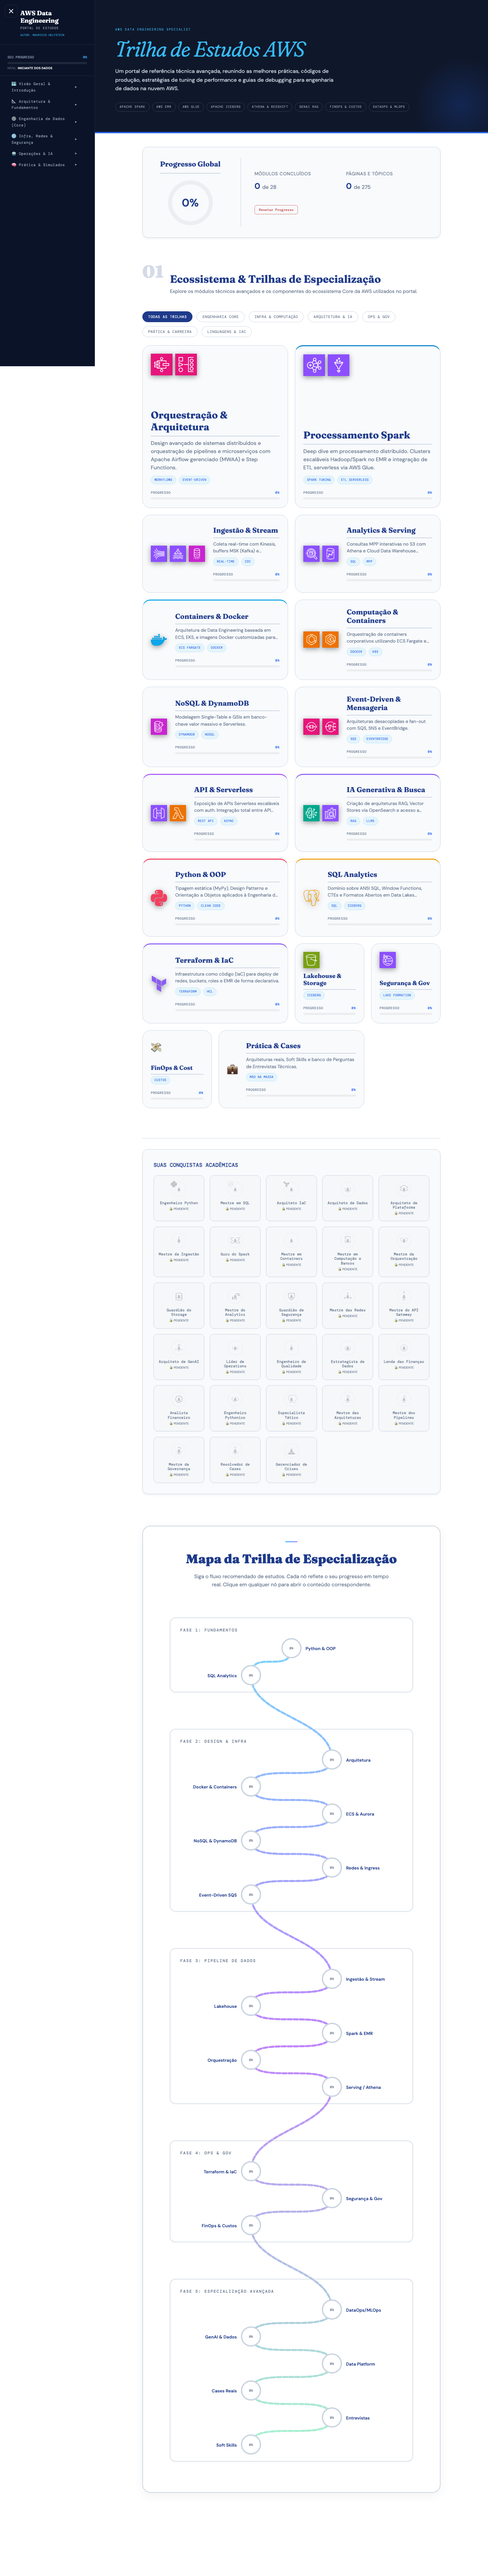
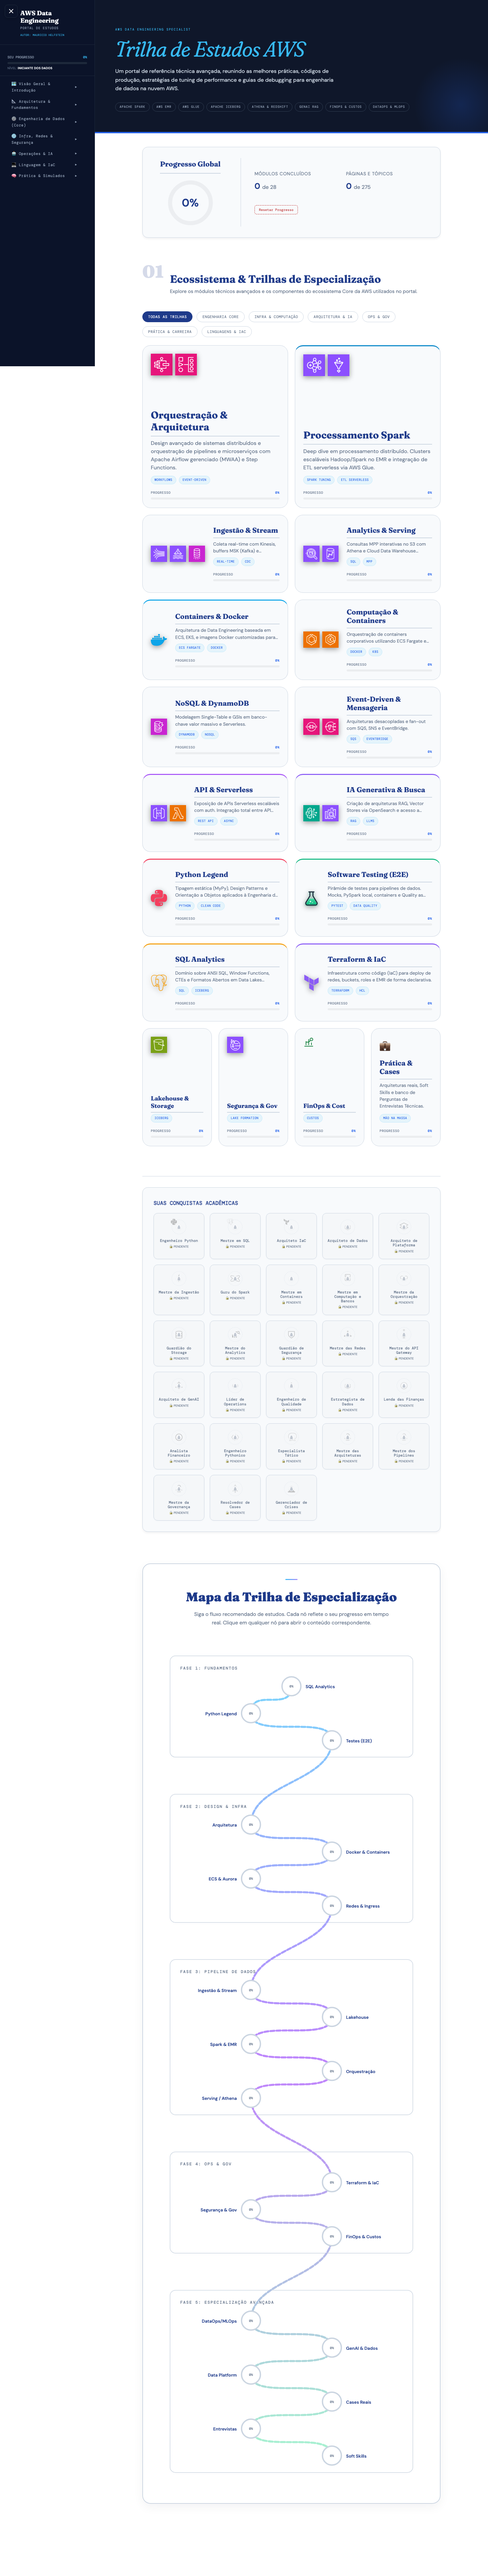
docs: release v1.7.0 and update sprintscreen preview for readme

diff --git a/CHANGELOG.md b/CHANGELOG.md
@@ -2,13 +2,21 @@
 
 Todas as mudanças notáveis para o repositório **AWS Data Mastery** são documentadas neste arquivo.
 
-## [Unreleased]
-### Added
-- **Python Mastery**: Nova página avançada cobrindo CPython, Heap/Stack, Garbage Collector, Magic Methods (OOP Massivo), Pandas e frameworks (`pages/linguagem/python-mastery.html`).
+## [v1.7.0] - 2026-06-14
+
+### Adicionado
+- **Python Legend**: Nova página avançada cobrindo Boas Práticas, OOP Massivo e Design Patterns aplicados à Engenharia de Dados (`pages/fundamentos/python-legend.html`).
 - **Software Testing na Engenharia de Dados**: Nova página dissecando a pirâmide de testes para dados (Unit/Mocks, Integration via PySpark local, E2E) e Data Quality as Code (`pages/linguagem/testing.html`).
+- **SQL Mastery**: Adição oficial do módulo ao portal e integração profunda no menu lateral na aba de Linguagem e IaC (`pages/fundamentos/sql-mastery.html`).
+- **FinOps AWS Cost Explorer**: Nova seção aprofundada com trade-offs entre serviços S3, DynamoDB, EMR e Redshift; dicas de taggeamento e anomalias financeiras.
 - **AWS Certification Gaps**: Injeção de questões e cenários de prova baseados nas certificações SAA-C03 e DEA-C01 referentes a resiliência Multi-Region, Direct Connect, Athena Partition Projection e Redshift Vacuum em `perguntas-arquitetura.html` e `perguntas-engenharia.html`.
 - **Diagramas Técnicos (Draw.io)**: Adição de 3 novos diagramas ilustrativos para ciclo de vida do Python, Estrutura de Projeto em Pastas e Pirâmide de Testes.
-- **Bento Grid & Roadmap**: Atualização do mapa principal para englobar os novos temas.
+
+### Modificado
+- **Linguagem & IaC Taxonomy**: Menu lateral reestruturado. Python Legend, SQL Mastery, Testes com Pytest e Terraform agora dividem o mesmo pilar no sidebar para fluidez de estudos.
+- **Layout Reference Cards**: Padronização arquitetural da seção de "Referências Bibliográficas" de `testing.html` utilizando o modelo `grid-2` com cartões customizados.
+- **Bento Grid & Roadmap**: Atualização do mapa principal (`index.html`) para englobar as novas rotas. O cartão de Prática & Cases foi reduzido para um tamanho modular simétrico, equilibrando o layout da homepage.
+- **Progresso e Telemetria**: Injeção sistêmica do motor `progress.js` nas novas páginas de GenAI e Testes que estavam sem rastreamento de progresso do usuário.
 
 ## [v1.6.0] - 2026-06-14
 
